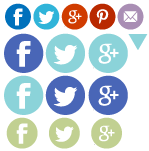
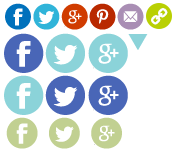
Link url author

diff --git a/themes/bebeteca/style.css b/themes/bebeteca/style.css
@@ -271,6 +271,7 @@ input:-moz-placeholder { color:#8bd3d9; font-family: 'arvoregular'; font-style: 
 .sigue-colaborador ul li.gm{background-position: -61px -3px;}
 .sigue-colaborador ul li.pr{background-position: -89px -3px;}
 .sigue-colaborador ul li.mail{background-position: -117px -3px;}
+.sigue-colaborador ul li.url{background-position: -146px -3px;}
 
 .entero.divicion{overflow: hidden;}
 span.line{position: relative; overflow: hidden;float: left; border-bottom: 1px solid #9b65b3; width: 221px; margin-top: 18px;}

diff --git a/themes/bebeteca/author.php b/themes/bebeteca/author.php
@@ -36,7 +36,11 @@ $user_nicename = get_the_author_meta( 'user_nicename', $user_id);
 						<?php endif;
 						$email = get_the_author_meta( 'user_email', $user_id );
 						if ($email != ''): ?>
-							<li class="mail"><a href="<?php //echo $email; ?>"></a></li>
+							<li class="mail"><a href="mailto:<?php echo $email; ?>"></a></li>
+						<?php endif;
+						$url = get_the_author_meta( 'user_url', $user_id );
+						if ($url != ''): ?>
+							<li class="url"><a href="<?php echo $url; ?>"></a></li>
 						<?php endif; ?>
 					</ul>
 				</div>

diff --git a/themes/bebeteca/template/articulo-general.php b/themes/bebeteca/template/articulo-general.php
@@ -24,7 +24,7 @@
 
 			<?php if ($term_name != ''): ?><span class="titulo1 pleca-<?php echo $term_slug; ?>"><?php echo $term_name; ?></span><?php endif; ?>
 			<?php the_post_thumbnail('articulos-gral'); ?>
-			<h4><?php the_title(); ?></h4>
+			<h4><?php echo wp_trim_words( get_the_title(), 6, '...'); ?></h4>
 			<p><?php echo wp_trim_words( get_the_excerpt(), 10 ) ?></p>
 			<div class="extras">
 				<span class="megusta"></span><p><?php echo get_count_like($post->ID, 'post'); ?></p>

diff --git a/themes/bebeteca/inc/users.php b/themes/bebeteca/inc/users.php
@@ -14,7 +14,7 @@
 
 
 	add_filter('user_contactmethods', function ( $contactmethods ) {
-		unset($contactmethods['url']);
+		// unset($contactmethods['url']);
 		unset($contactmethods['aim']);
 		unset($contactmethods['yim']);
 		unset($contactmethods['jabber']);
